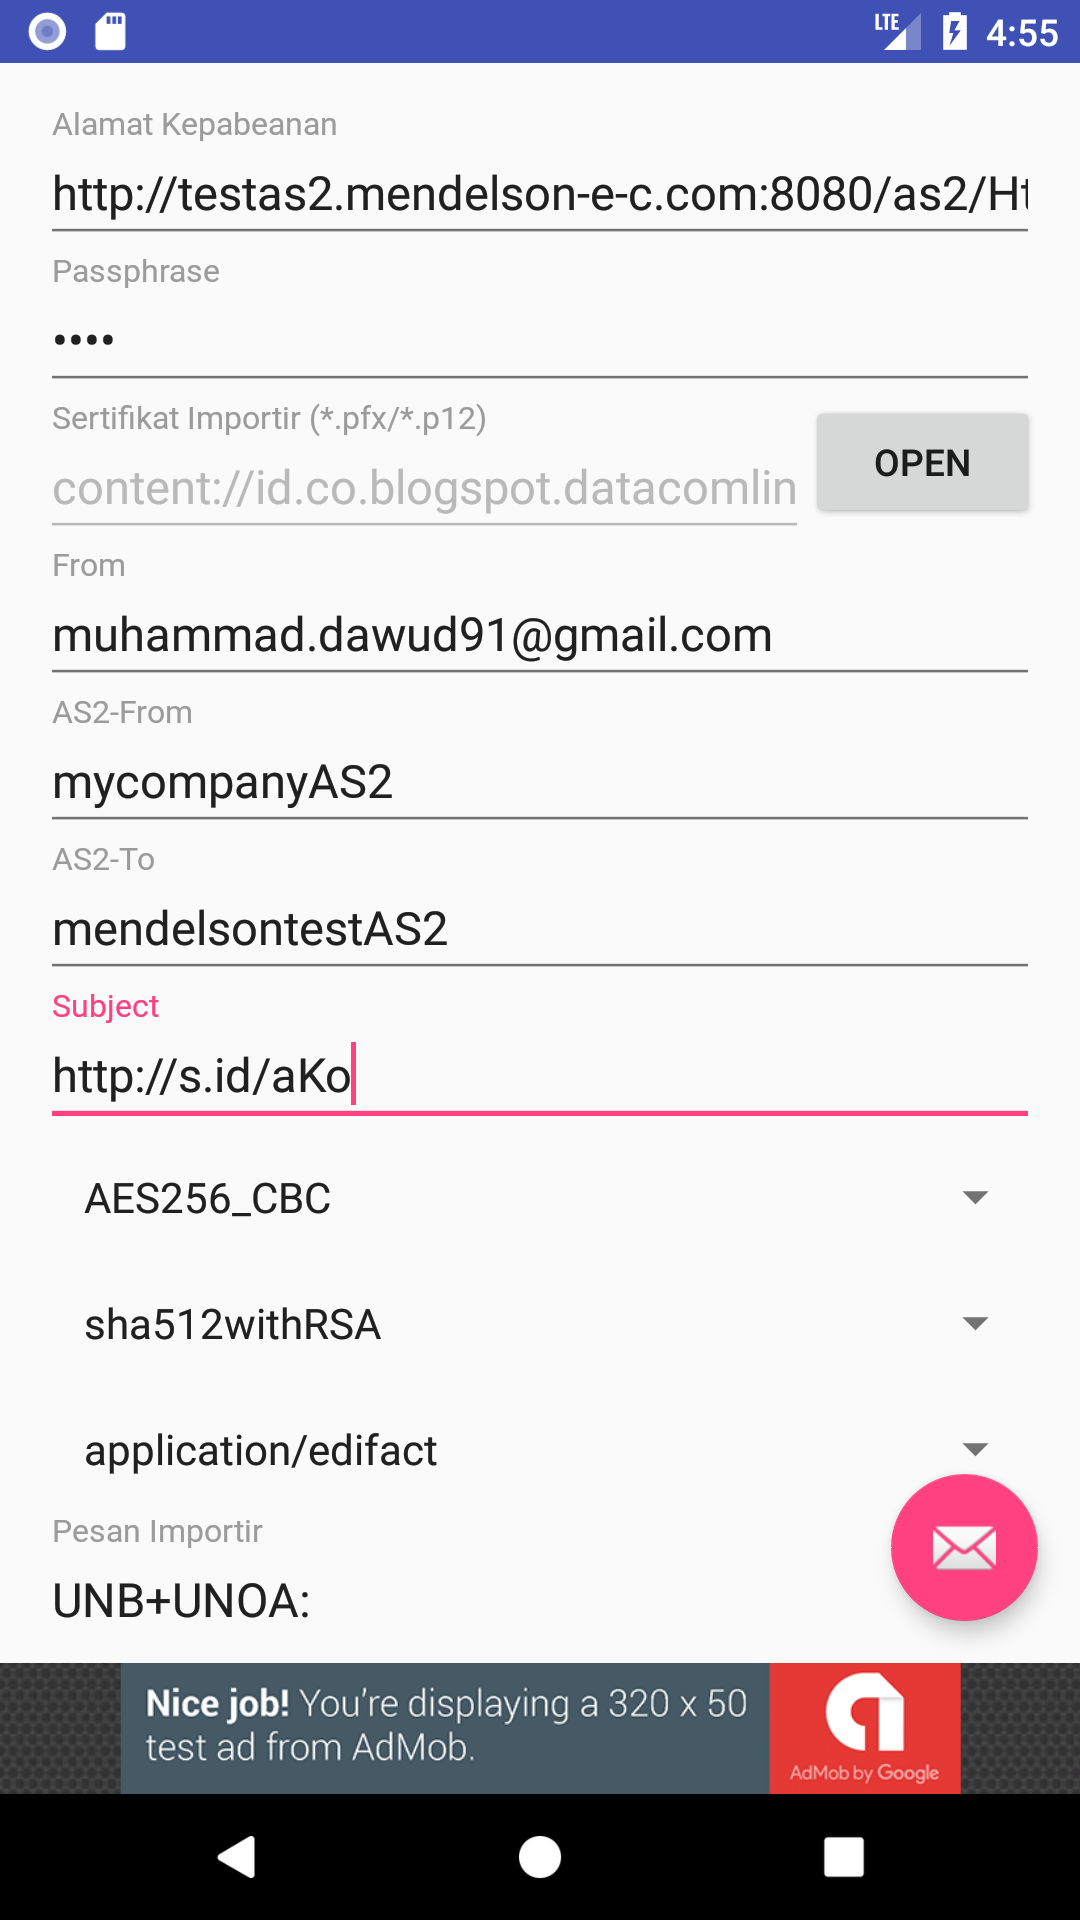
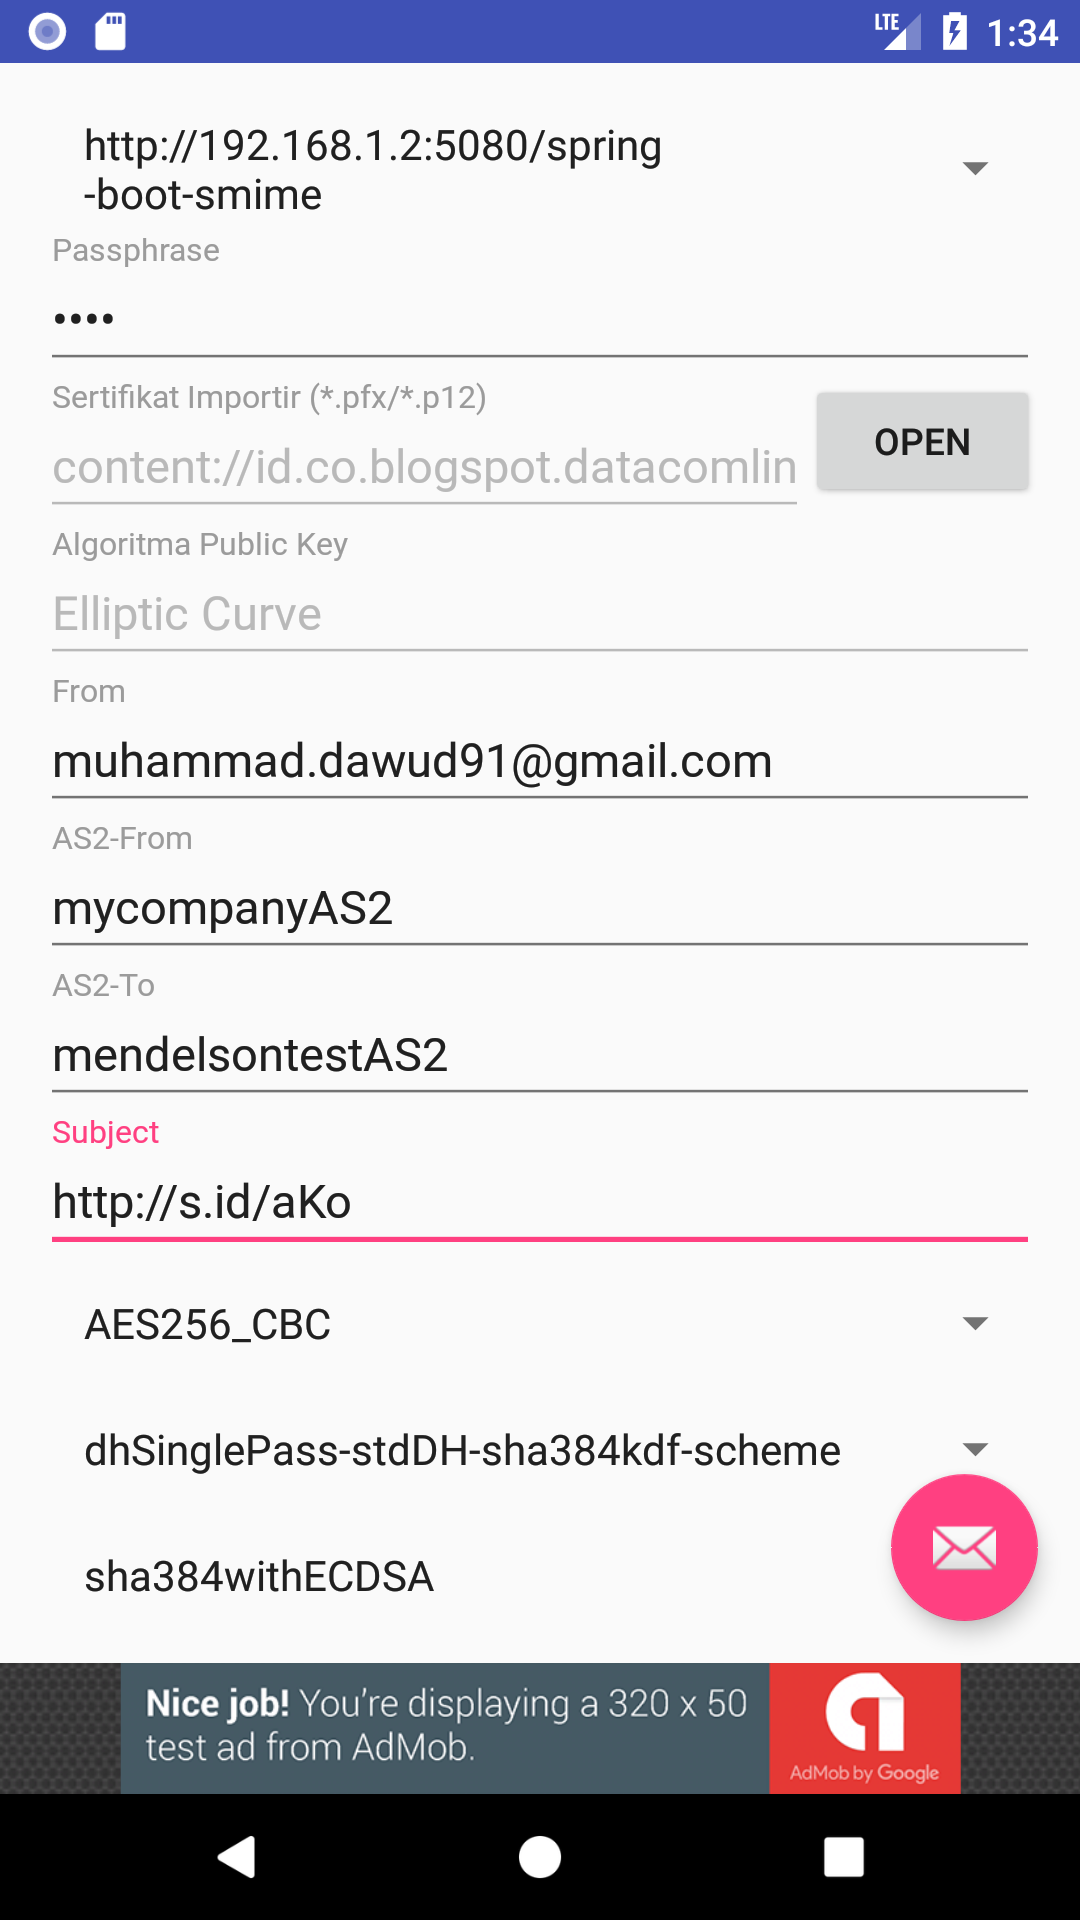
Sertifikat Digital dengan Curve25519 ( http://s.id/a5n )

diff --git a/app/src/main/java/id/co/blogspot/interoperabilitas/ediint/MainActivity.java b/app/src/main/java/id/co/blogspot/interoperabilitas/ediint/MainActivity.java
@@ -79,6 +79,10 @@ public class MainActivity extends AppCompatActivity {
         KEY_WRAP_ALGORITHM.put(SECObjectIdentifiers.dhSinglePass_stdDH_sha256kdf_scheme, NISTObjectIdentifiers.id_aes128_wrap);
         EC_KEY_ENCRYPTION_ALGORITHM.put("dhSinglePass-stdDH-sha384kdf-scheme", SECObjectIdentifiers.dhSinglePass_stdDH_sha384kdf_scheme);
         KEY_WRAP_ALGORITHM.put(SECObjectIdentifiers.dhSinglePass_stdDH_sha384kdf_scheme, NISTObjectIdentifiers.id_aes256_wrap);
+        EC_KEY_ENCRYPTION_ALGORITHM.put("dhSinglePass-cofactorDH-sha256kdf-scheme", SECObjectIdentifiers.dhSinglePass_cofactorDH_sha256kdf_scheme);
+        KEY_WRAP_ALGORITHM.put(SECObjectIdentifiers.dhSinglePass_cofactorDH_sha256kdf_scheme, NISTObjectIdentifiers.id_aes128_wrap);
+        EC_KEY_ENCRYPTION_ALGORITHM.put("dhSinglePass-cofactorDH-sha384kdf-scheme", SECObjectIdentifiers.dhSinglePass_cofactorDH_sha384kdf_scheme);
+        KEY_WRAP_ALGORITHM.put(SECObjectIdentifiers.dhSinglePass_cofactorDH_sha384kdf_scheme, NISTObjectIdentifiers.id_aes256_wrap);
 //UNTUK ELLIPTIC CURVE
 
         //https://tools.ietf.org/html/rfc5751#section-2.7

diff --git a/README.md b/README.md
@@ -1,9 +1,9 @@
 # RetrofitSmime
-Android app that show how to use spongycastle S/MIME package to send an AS2-Message (RFC 4130), this project use Android Studio 2.3.3
+Android app that show how to use Spongycastle S/MIME package to send an AS2-Message (RFC 4130), this project use Android Studio 2.3.3
 
 You could send signed & encrypted Customs declaration message using this certificate '[importir.p12](https://github.com/dawud-tan/RetrofitSmime/raw/master/importir.p12)', the passphrase is `test`
 
-In this project, the Customs declaration message will be delivered to the following endpoint `http://testas2.mendelson-e-c.com:8080/as2/HttpReceiver`. You can monitor messages being send to Mendelson using URL `http://testas2.mendelson-e-c.com:8080/webas2/`. Username and password is `guest`. You could also use following simple as2 server coded in php, '[SecureTransmissionLoop.php](https://github.com/dawud-tan/RetrofitSmime/raw/master/SecureTransmissionLoop.php)', then change the address bar pointing to `http://yourdomain:port/path/to/SecureTransmissionLoop.php`.
+In this project, the Customs declaration message will be delivered to the following endpoint `http://testas2.mendelson-e-c.com:8080/as2/HttpReceiver`. You can monitor messages being send to Mendelson using URL `http://testas2.mendelson-e-c.com:8080/webas2/`. Username and password is `guest`. You could also use following simple as2 server coded in php, '[SecureTransmissionLoop.php](https://github.com/dawud-tan/RetrofitSmime/raw/master/SecureTransmissionLoop.php)', then change the address bar pointing to `http://yourdomain:port/path/to/SecureTransmissionLoop.php`. The use of Elliptic Curve Cryptography-based x509 Certificate is also possible by employing KeyAgreeRecipientInfo, just swap with this certificate '[pedagang.p12](https://github.com/dawud-tan/RetrofitSmime/raw/master/pedagang.p12)', the passphrase is also `test`, then change the endpoint to `http://192.168.1.xxx:5080/spring-boot-smime`
 
 If you would like to try RetrofitSmime, just grab it from the following Google Play button
 [![Google Play](https://play.google.com/intl/en_us/badges/images/generic/en_badge_web_generic.png)](https://play.google.com/store/apps/details?id=id.co.blogspot.datacomlink.ediint&utm_source=global_co&utm_medium=prtnr&utm_content=Mar2515&utm_campaign=PartBadge&pcampaignid=MKT-Other-global-all-co-prtnr-py-PartBadge-Mar2515-1)
